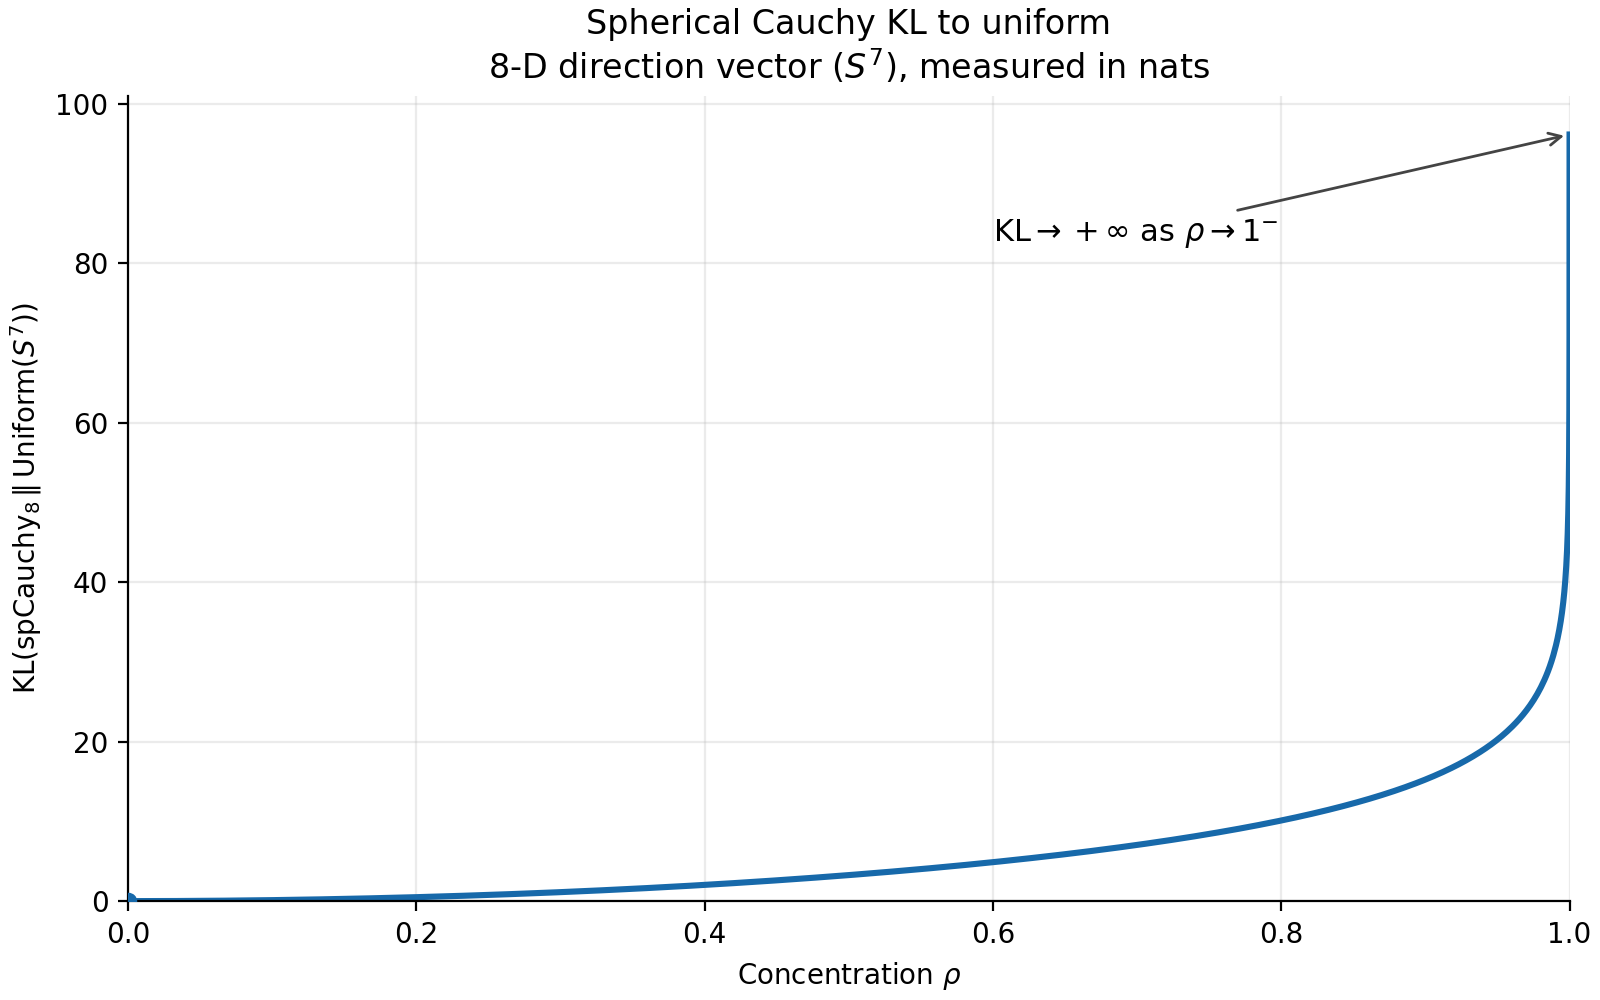
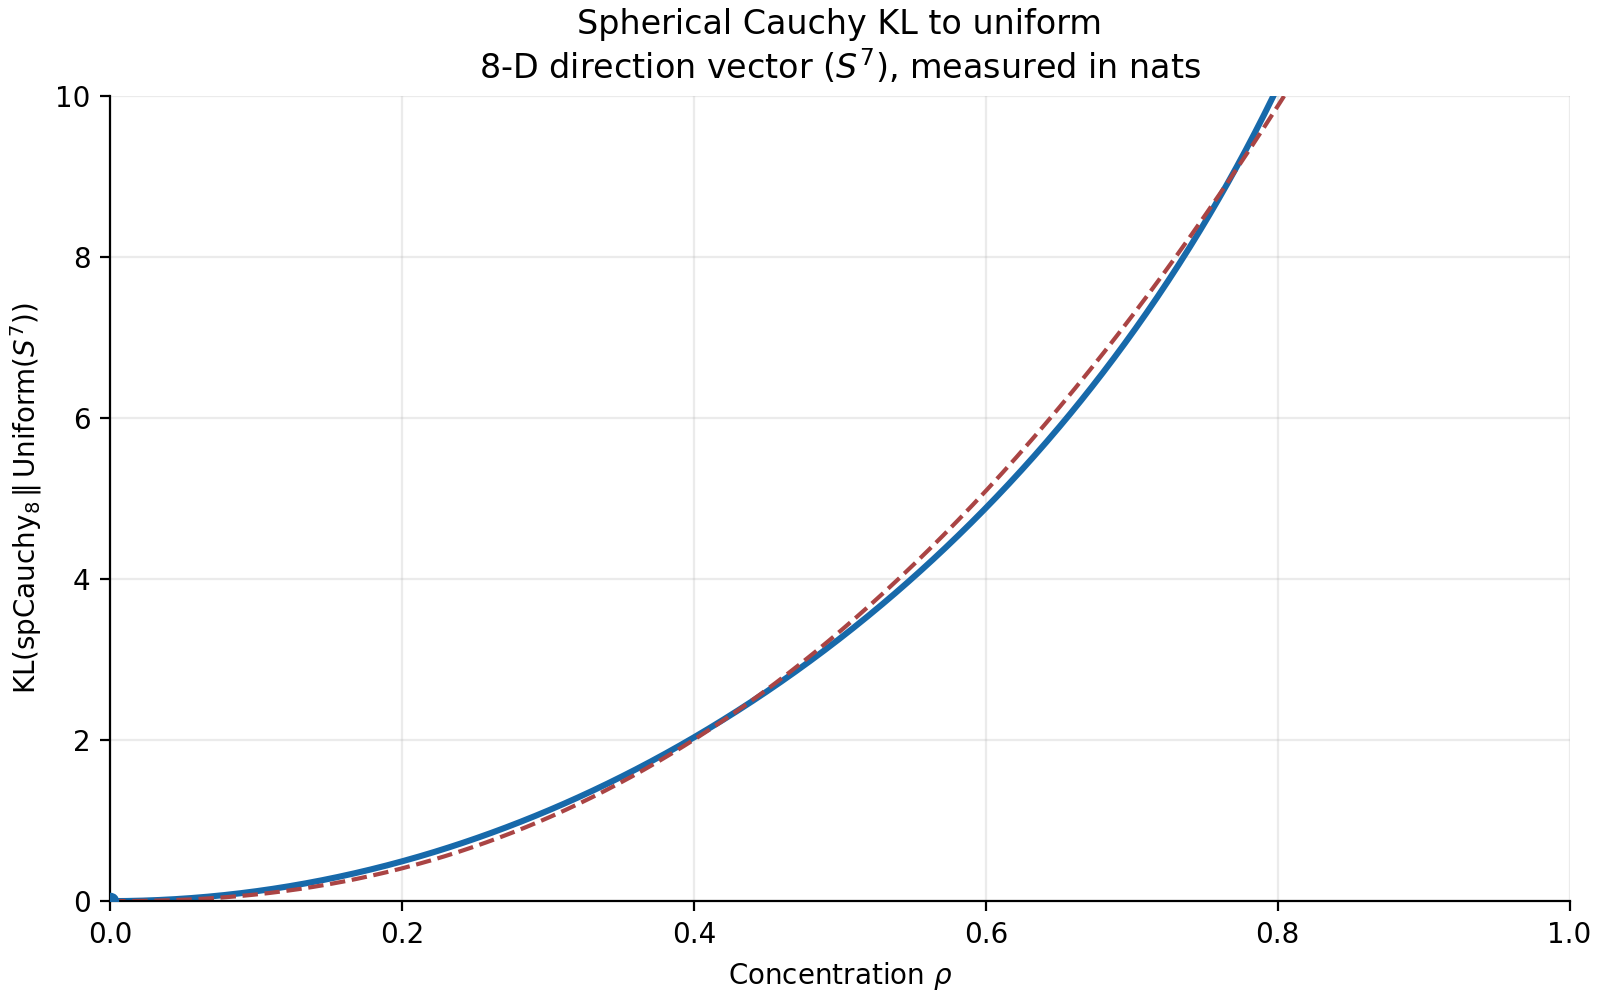
cauchy sampling and eval

diff --git a/src/models/zlm.py b/src/models/zlm.py
@@ -505,64 +505,24 @@ class ZLMModel(nn.Module):
         z_states: torch.FloatTensor,
         noise: torch.FloatTensor,
         noise_temperature: float = 1.0,
-        guidance_scale: float | None = None,
-        token_index: int | None = None,
     ):
-        # TODO: update to cauchy
-
-        do_guide = guidance_scale is not None
-        if do_guide:
-            assert token_index is not None
 
         g_states = self.decoder_head.states_gate_proj(z_states)
         u_states = self.decoder_head.states_up_proj(z_states)
         cross = self.decoder_head.cross_proj(z_states)
-        if do_guide:
-            uncond_g_states = self.uncond_decoder_head.states_gate_proj(
-                unsqueeze_to_batch(self.uncond_tokens[token_index], z_states)
-            )
-            uncond_u_states = self.uncond_decoder_head.states_up_proj(
-                unsqueeze_to_batch(self.uncond_tokens[token_index], z_states)
-            )
-            uncond_cross = self.uncond_decoder_head.cross_proj(
-                unsqueeze_to_batch(self.uncond_tokens[token_index], z_states)
-            )
 
         # naive iteration to perform AR head sampling
         z = torch.zeros_like(noise)
-        for t in range(self.latent_size if do_guide else self.z_ar_steps):
+        for t in range(self.z_ar_steps):
 
-            g = g_states + self.decoder_head.z_gate_proj(z)
-            u = u_states + self.decoder_head.z_up_proj(z)
+            z_in = self.decoder_head.input_fn(z)
+            g = g_states + self.decoder_head.z_gate_proj(z_in)
+            u = u_states + self.decoder_head.z_up_proj(z_in)
+
             h = self.decoder_head.act(g) * u
-            mu = cross + self.decoder_head.down_proj(h)
+            mu = self.decoder_head.output_fn(cross + self.decoder_head.down_proj(h))
 
-            if do_guide:
-                uncond_g = uncond_g_states + self.uncond_decoder_head.z_gate_proj(z)
-                uncond_u = uncond_u_states + self.uncond_decoder_head.z_up_proj(z)
-                uncond_h = self.uncond_decoder_head.act(uncond_g) * uncond_u
-                uncond_mu = uncond_cross + self.uncond_decoder_head.down_proj(uncond_h)
-
-                mu = mu + guidance_scale * (mu - uncond_mu)
-
-            if noise_temperature != 1.0:
-                assert not do_guide, "Noise temperature adjustment is not compatible with guidance."
-
-                slc = slice(t*self.latent_size//self.z_ar_steps, (t+1)*self.latent_size//self.z_ar_steps)
-                
-                mu_curr = mu[..., slc]
-                noise_curr = noise[..., slc]
-
-                z_curr = mu_curr + noise_temperature * noise_curr
-
-                base_norm = (mu_curr.norm(dim=-1, keepdim=True).pow(2) + noise_curr.shape[-1]).sqrt()
-                adj_norm = (mu_curr.norm(dim=-1, keepdim=True).pow(2) + noise_curr.shape[-1] * noise_temperature**2).sqrt()
-
-                z_curr = z_curr * (base_norm / adj_norm)
-                z[..., slc] = z_curr
-
-            else:
-                z = self.add_noise(mu, noise, noise_temperature)
+            z = self.add_noise(mu, noise, noise_scale=noise_temperature)
 
         return z
 
@@ -585,8 +545,8 @@ class ZLMModel(nn.Module):
         from tqdm import tqdm
 
         # create compiled functions
-        if not hasattr(self, "sample_inited"):
-            self.compile_inited = True
+        if not getattr(self, "_compile_inited", False):
+            self._compile_inited = True
 
             self._decoder_fn = self.decoder_model.forward
             self._ar_fn = self.ar_rollout
@@ -596,7 +556,7 @@ class ZLMModel(nn.Module):
                 self._ar_fn = torch.compile(self._ar_fn, fullgraph=True, dynamic=True, mode="reduce-overhead")
 
         # handle the noise
-        if noise is None and encoded_z is None:
+        if noise is None:
             noise = self.sample_noise(input_ids)
 
         # initialize the cache
@@ -634,7 +594,7 @@ class ZLMModel(nn.Module):
             # pass the previous z token through the decoder
             z_token = (
                 unsqueeze_to_batch(self.decoder_z_tokens[i], prev_z) +
-                self.decoder_z_proj_in(self.decoder_z_norm_in(prev_z))
+                self.decoder_z_proj_in(self._l2_to_rms(prev_z))
             ) # [B, hidden_size]
 
             z_states = self._decoder_fn(
@@ -656,7 +616,6 @@ class ZLMModel(nn.Module):
                 prev_z = self._ar_fn(
                     z_states,
                     noise[:, i, :],
-                    token_index=i,
                     **rollout_kwargs,
                 ).clone()
 

diff --git a/src/chart_benchmarks.py b/src/chart_benchmarks.py
@@ -8,24 +8,17 @@ import matplotlib.pyplot as plt
 import utils.constants as constants
 
 
+BASE_PATH = os.path.join(constants.LOCAL_DATA_PATH)
 SAVE_PATH = os.path.join(constants.LOCAL_DATA_PATH, "benchmark_chart.png")
 
-BASE_PATH = os.path.join(constants.LOCAL_DATA_PATH, "evaluation_results")
-
 CHECKPOINTS = {
-    "aklein4--ZEBRA_muon-1p7b-once/000000024000": "Low-MI-09K",
-    "aklein4--ZEBRA_muon-1p7b-mi/000000018000": "Diffusion-18K",
-    "aklein4--ZEBRA_muon-1p7b-cont/000000009000": "Diffusion-09K",
-    # "../guidance_evaluation_results": "Guided",
-    # "../guidance_evaluation_results_2": "Guided-2",
-    "aklein4--ZEBRA_ar-1p7b-kernel-strong/000000009000": "AR-09K",
-    "aklein4--ZEBRA_ar-1p7b-sigreg/000000007000": "SIGReg-07K",
-    "../no_noise_scaled_eval_results/aklein4--ZEBRA_ar-1p7b-kernel-strong/000000009000": "AR-NN-09K",
-    "aklein4--ZEBRA_baseline-1p7b/000000050000": "Baseline-50K",
-    # "aklein4--ZEBRA_baseline-1p7b/000000020000": "Baseline-20K",
-    # "aklein4--ZEBRA_baseline-1p7b/000000015000": "Baseline-15K",
-    "aklein4--ZEBRA_baseline-1p7b/000000010000": "Baseline-10K",
-    # "aklein4--ZEBRA_baseline-1p7b/000000005000": "Baseline-5K",
+    "evaluation_results_v2/aklein4--ZEBRA-v2_360m-alpha-lowReg/000000027000": "Gaussian",
+    "evaluation_results_v2/aklein4--ZEBRA-v2_360m-cauchy/000000027000": "Cauchy",
+    "evaluation_results_v2/aklein4--ZEBRA-v2_360m-cauchy-noReg/000000024000": "Cauchy-noReg",
+    "evaluation_results_v2-noise=0-fixed/aklein4--ZEBRA-v2_360m-alpha-lowReg/000000027000": "Gaussian-0",
+    "evaluation_results_v2-noise=0/aklein4--ZEBRA-v2_360m-cauchy/000000027000": "Cauchy-0",
+    "evaluation_results_v2-noise=0/aklein4--ZEBRA-v2_360m-cauchy-noReg/000000024000": "Cauchy-noReg-0",
+    "evaluation_results_v2/aklein4--ZEBRA-v2_360m-baseline/000000020000": "Baseline",
 }
 
 REASONING_BENCHMARKS = [

diff --git a/experimental/plot_sp_cauchy_kl.py b/experimental/plot_sp_cauchy_kl.py
@@ -111,6 +111,11 @@ def main() -> None:
     ax.grid(True, alpha=0.25)
     ax.spines[["top", "right"]].set_visible(False)
 
+    x = np.linspace(0.0, 1.0, 1001)
+    y = 8 * (x/0.73)**2.3
+    ax.plot(x, y, color="#aa4444", linewidth=1.5, linestyle="--")
+    ax.set_ylim(top=10.0)
+
     fig.savefig(OUTPUT_PATH, dpi=200)
     print(f"Saved {OUTPUT_PATH}")
     for value in (0.0, 0.25, 0.5, 0.75, 0.9, 0.99, 0.999999):
